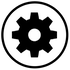
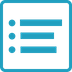
Modify button in iPad ver

diff --git a/poetryapps/iPadReadingTableViewController.m b/poetryapps/iPadReadingTableViewController.m
@@ -100,9 +100,10 @@
     //_LightBackgroundColor = [[UIColor alloc] initWithRed:(32/255.0f) green:(159/255.0f) blue:(191/255.0f) alpha:1];
     
     
-    _NaviBtnImgWhiteNormal = [UIImage imageNamed:@"NaviBtnNormal_White_iPad.png"];
-    _NaviBtnImgDarkNormal = [UIImage imageNamed:@"NaviBtnNormal_iPad.png"];
-
+    _NaviBtnImgWhiteNormal = [UIImage imageNamed:@"NaviBtnNormal_iPad.png"];
+    //_NaviBtnImgDarkNormal = [UIImage imageNamed:@"NaviBtnNormal_iPad.png"];
+    _NaviBtnImgWhitePressed = [UIImage imageNamed:@"NaviBtnPress_iPad.png"];
+    
     _SettingBtnImg = [UIImage imageNamed:@"SettingNormal_White_iPad.png"];
     _SearchingBtnImg = [UIImage imageNamed:@"SearchingNormal_White_iPad.png"];
 
@@ -1392,12 +1393,17 @@
     if (_PoetrySetting.SettingTheme == THEME_LIGHT_DARK) {
         
         [_NaviBtn setBackgroundImage:_NaviBtnImgDarkNormal forState:UIControlStateNormal];
+        NSLog(@"SET");
         //[_NaviBtn setBackgroundImage:_NaviBtnImgDarkPressed forState:UIControlStateHighlighted];
+        [_NaviBtn setBackgroundImage:_NaviBtnImgWhiteNormal forState:UIControlStateNormal];
+        [_NaviBtn setBackgroundImage:_NaviBtnImgWhitePressed forState:UIControlStateHighlighted];
+
+
         
     } else {
         
         [_NaviBtn setBackgroundImage:_NaviBtnImgWhiteNormal forState:UIControlStateNormal];
-        //[_NaviBtn setBackgroundImage:_NaviBtnImgWhitePressed forState:UIControlStateHighlighted];
+        [_NaviBtn setBackgroundImage:_NaviBtnImgWhitePressed forState:UIControlStateSelected];
         
     }
 }
@@ -1429,16 +1435,19 @@
     [_SettingBtn setImage:_SettingBtnImg forState:UIControlStateNormal];
     [_SettingBtn addTarget:self action:@selector(SettingBtnHandler) forControlEvents:UIControlEventTouchUpInside];
     
-    
+        
     if (_CoverView == nil) {
         
         //_CoverView = [[ILTranslucentView alloc] initWithFrame:CGRectMake(0, 0, UI_IPAD_SCREEN_WIDTH, UI_IPAD_SCREEN_HEIGHT)];
+        _CoverView = [[UIView alloc] initWithFrame:CGRectMake(0, 0, UI_IPAD_SCREEN_WIDTH, UI_IPAD_SCREEN_HEIGHT)];
         _CoverView.backgroundColor = [UIColor colorWithRed:(40/255.0f) green:(42/255.0f) blue:(54/255.0f) alpha:0.7 ];
-        
+        //_CoverView.backgroundColor = [UIColor colorWithRed:(145/255.0f) green:(145/255.0f) blue:(145/255.0f) alpha:0.7 ];
+        /*
         _CoverView.translucentAlpha = 0.9;
         _CoverView.translucentStyle = UIBarStyleBlack;
         _CoverView.translucentTintColor = [UIColor clearColor];
         _CoverView.backgroundColor = [UIColor clearColor];
+         */
         
     }
     [_CoverView setTag:TAG_COVER_VIEW];

diff --git a/poetryapps/iPadReadingTableViewController.h b/poetryapps/iPadReadingTableViewController.h
@@ -114,7 +114,7 @@ typedef enum {
 } COVER_VIEW_STATE;
 
 
-@property (nonatomic, strong)   ILTranslucentView       *CoverView;
+@property (nonatomic, strong)   UIView                  *CoverView;
 @property (nonatomic, strong)   UITableView             *CategoryTableView;
 
 @property (nonatomic, strong)   NSMutableArray          *TableData;
